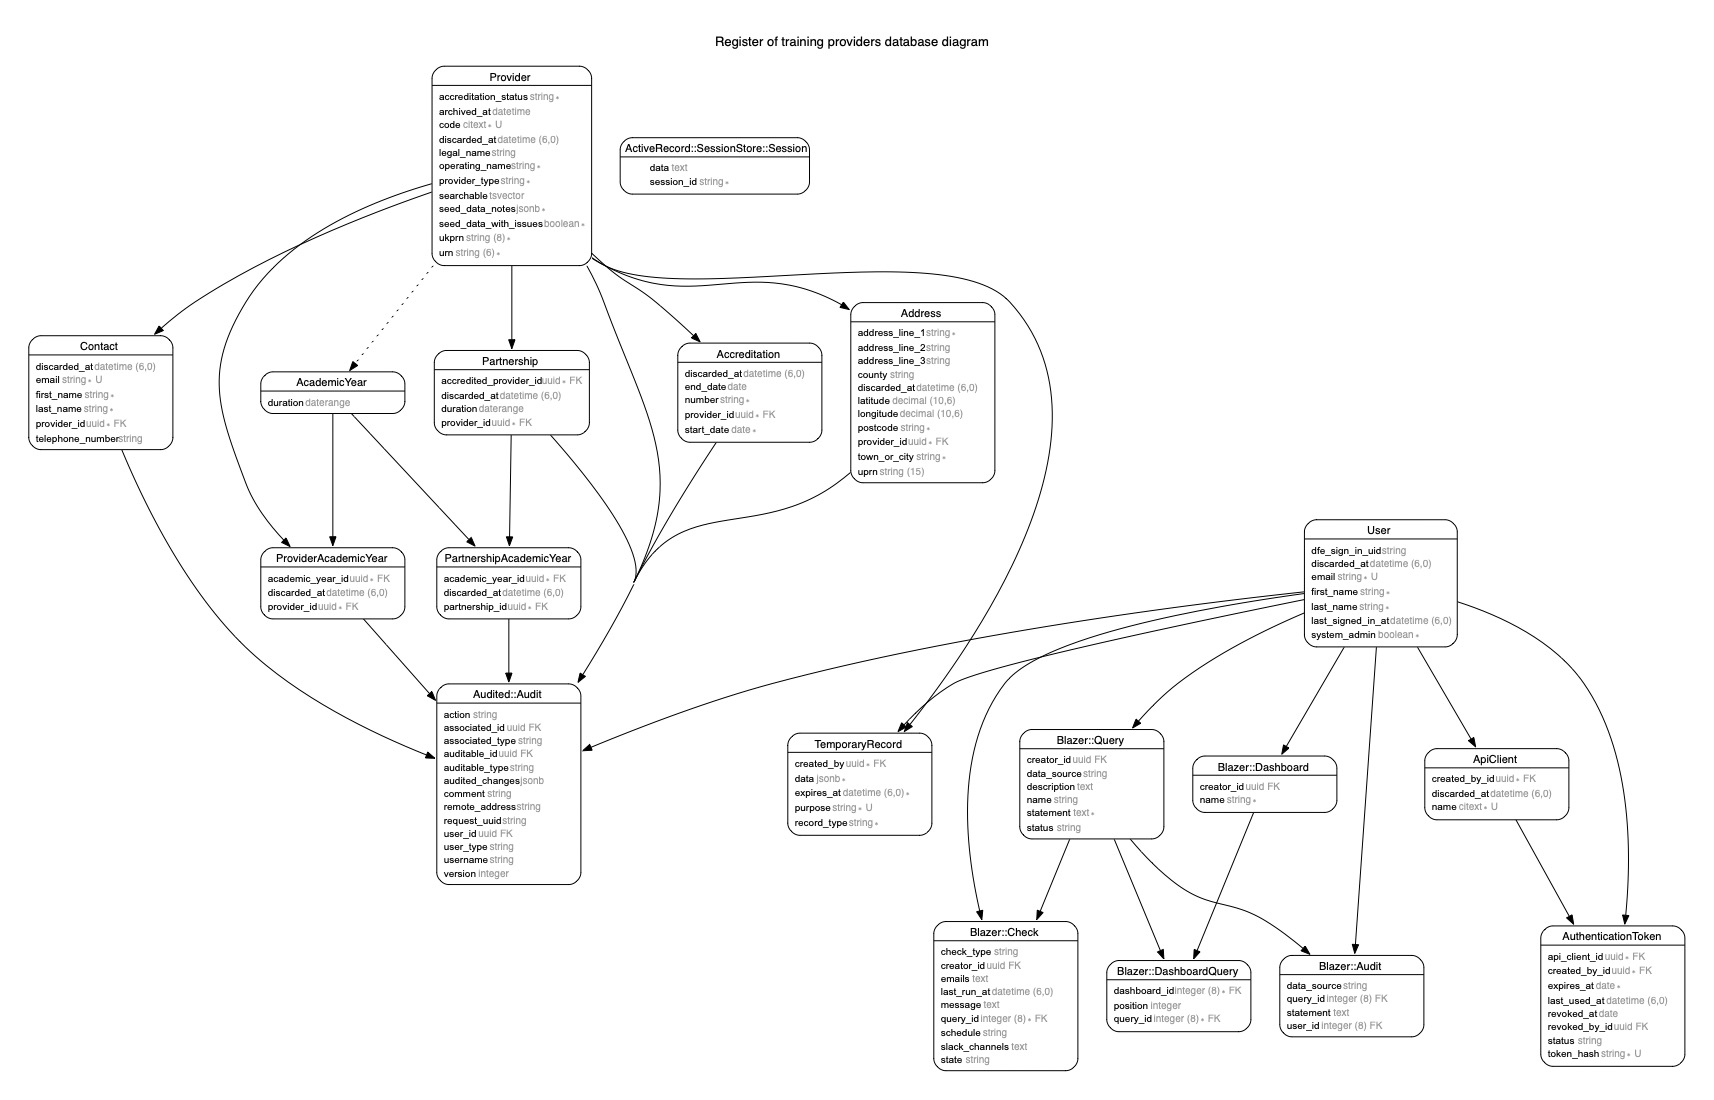
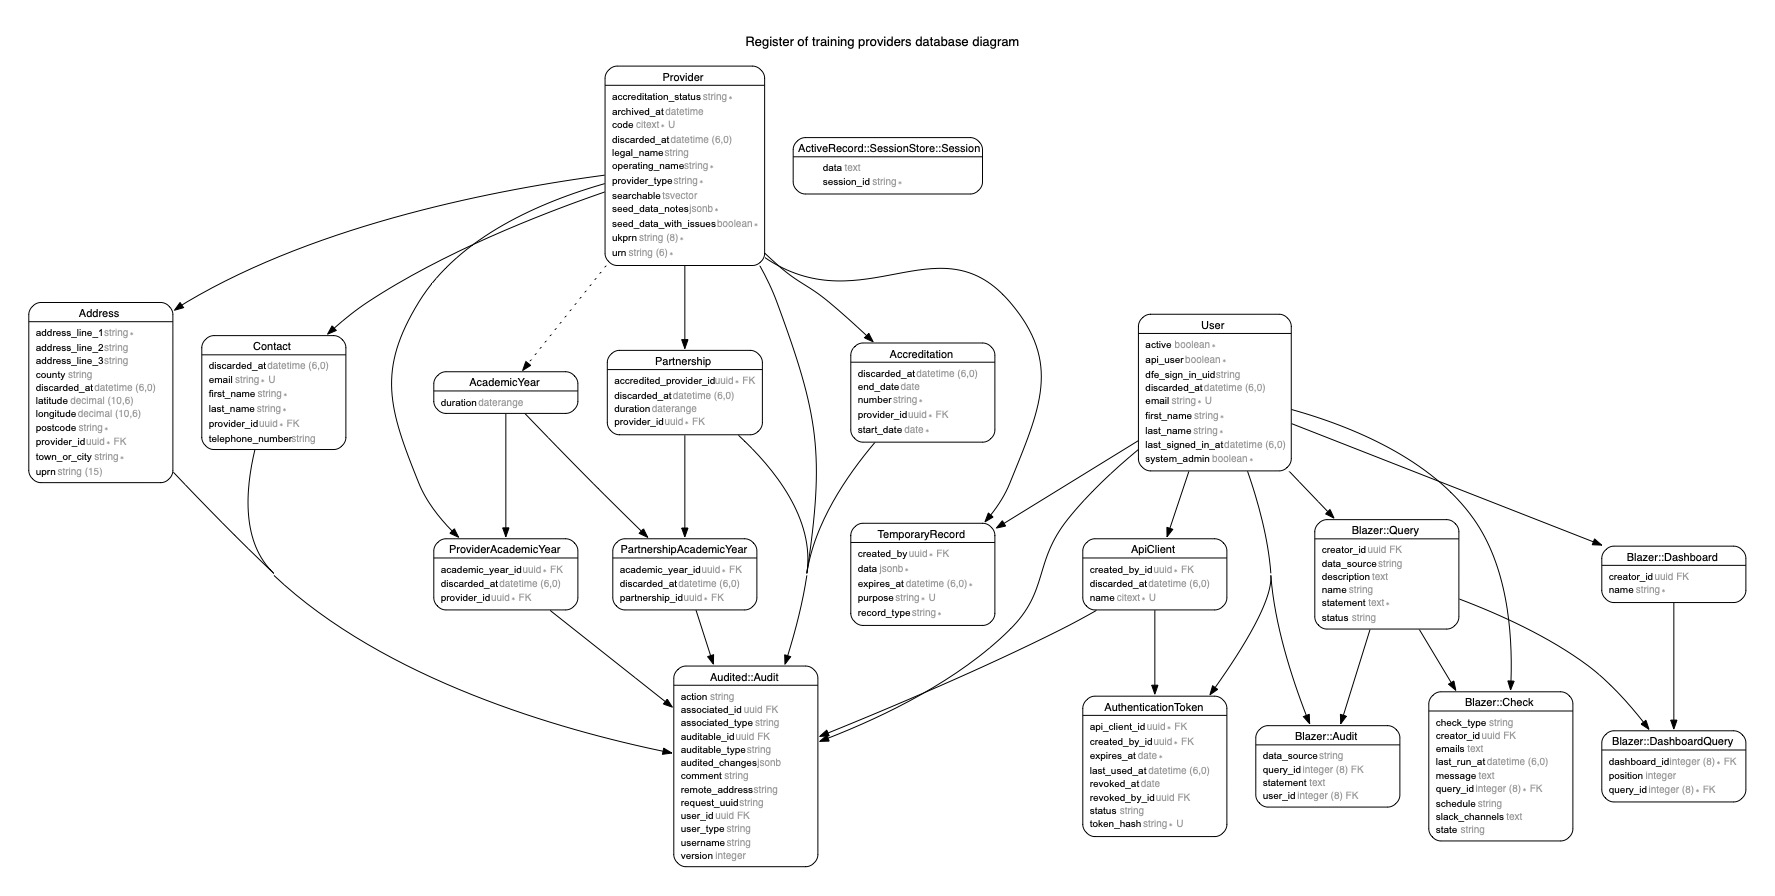
[383] - Administering user details (#469)

diff --git a/spec/helpers/summary_helper_spec.rb b/spec/helpers/summary_helper_spec.rb
@@ -26,27 +26,102 @@ RSpec.describe SummaryHelper, type: :helper do
   end
 
   describe "#user_rows" do
-    let(:user) { build_stubbed(:user) }
+    let(:user) { build_stubbed(:user, last_signed_in_at:) }
+    let(:last_signed_in_at) { nil }
     let(:change_path) { "/users/#{user.id}/edit" }
 
-    it "returns the expected rows" do
-      expect(helper.user_rows(user, change_path)).to eq([
-        {
-          key: { text: "First name" },
-          value: { text: user.first_name },
-          actions: [{ href: change_path, visually_hidden_text: "first name" }]
-        },
-        {
-          key: { text: "Last name" },
-          value: { text: user.last_name },
-          actions: [{ href: change_path, visually_hidden_text: "last name" }]
-        },
-        {
-          key: { text: "Email address" },
-          value: { text: user.email },
-          actions: [{ href: change_path, visually_hidden_text: "email address" }]
-        }
-      ])
+    context "for a new user" do
+      before { allow(user).to receive(:persisted?).and_return(false) }
+
+      let(:change_path) { "/users/new?goto=confirm" }
+
+      it "returns the expected rows" do
+        expect(helper.user_rows(user, change_path)).to eq([
+          {
+            key: { text: "First name" },
+            value: { text: user.first_name },
+            actions: [{ href: change_path, visually_hidden_text: "first name" }]
+          },
+          {
+            key: { text: "Last name" },
+            value: { text: user.last_name },
+            actions: [{ href: change_path, visually_hidden_text: "last name" }]
+          },
+          {
+            key: { text: "Email address" },
+            value: { text: user.email },
+            actions: [{ href: change_path, visually_hidden_text: "email address" }]
+          },
+          {
+            key: { text: "Is the account an API user?" },
+            value: { text: "No" },
+            actions: [{ href: change_path, visually_hidden_text: "is the account an api user" }]
+          }
+        ])
+      end
+    end
+
+    context "for a user that hasn't signed in" do
+      it "returns the expected rows" do
+        expect(helper.user_rows(user, change_path)).to eq([
+          {
+            key: { text: "First name" },
+            value: { text: user.first_name },
+            actions: [{ href: change_path, visually_hidden_text: "first name" }]
+          },
+          {
+            key: { text: "Last name" },
+            value: { text: user.last_name },
+            actions: [{ href: change_path, visually_hidden_text: "last name" }]
+          },
+          {
+            key: { text: "Email address" },
+            value: { text: user.email },
+            actions: [{ href: change_path, visually_hidden_text: "email address" }]
+          },
+          {
+            key: { text: "Is the account an API user?" },
+            value: { text: "No" },
+            actions: [{ href: change_path, visually_hidden_text: "is the account an api user" }]
+          },
+          {
+            key: { text: "Is the account active?" },
+            value: { text: "Yes" },
+            actions: [{ href: change_path, visually_hidden_text: "is the account active" }]
+          }
+        ])
+      end
+    end
+
+    context "for a user that has signed in" do
+      let(:last_signed_in_at) { Time.zone.now }
+
+      it "returns the expected rows" do
+        expect(helper.user_rows(user, change_path)).to eq([
+          {
+            key: { text: "First name" },
+            value: { text: user.first_name }
+          },
+          {
+            key: { text: "Last name" },
+            value: { text: user.last_name }
+          },
+          {
+            key: { text: "Email address" },
+            value: { text: user.email }
+          },
+          {
+            key: { text: "Is the account an API user?" },
+            value: { text: "No" },
+            actions: [{ href: change_path, visually_hidden_text: "is the account an api user" }]
+          },
+          {
+            key: { text: "Is the account active?" },
+            value: { text: "Yes" },
+            actions: [{ href: change_path, visually_hidden_text: "is the account active" }]
+          }
+        ])
+      end
     end
   end
 end

diff --git a/spec/views/users/edit.html.erb_spec.rb b/spec/views/users/edit.html.erb_spec.rb
@@ -1,8 +1,9 @@
 require "rails_helper"
 
 RSpec.describe "users/edit.html.erb", type: :view do
-  let(:user) { create(:user) }
+  let(:user) { create(:user, last_signed_in_at:) }
   let(:goto) { nil }
+  let(:last_signed_in_at) { nil }
 
   before do
     assign(:user, user)
@@ -34,6 +35,8 @@ RSpec.describe "users/edit.html.erb", type: :view do
     expect(rendered).to have_selector("input[name='user[first_name]']")
     expect(rendered).to have_selector("input[name='user[last_name]']")
     expect(rendered).to have_selector("input[name='user[email]']")
+    expect(rendered).to have_selector("input[name='user[api_user]']")
+    expect(rendered).to have_selector("input[name='user[active]']")
   end
 
   it "renders the cancel link" do
@@ -75,6 +78,28 @@ RSpec.describe "users/edit.html.erb", type: :view do
         "Enter last name",
         "Enter email address"
       )
+    end
+  end
+
+  context "when a user has signed in" do
+    let(:last_signed_in_at) { Time.zone.now }
+
+    it "renders the form with the editable fields" do
+      expect(rendered).to have_selector("form")
+      expect(rendered).not_to have_selector("input[name='user[first_name]']")
+      expect(rendered).not_to have_selector("input[name='user[last_name]']")
+      expect(rendered).not_to have_selector("input[name='user[email]']")
+      expect(rendered).to have_selector("input[name='user[api_user]']")
+      expect(rendered).to have_selector("input[name='user[active]']")
+    end
+
+    it "renders the uneditable fields" do
+      expect(rendered).to have_selector("dt", text: "First name")
+      expect(rendered).to have_selector("dd", text: user.first_name)
+      expect(rendered).to have_selector("dt", text: "Last name")
+      expect(rendered).to have_selector("dd", text: user.last_name)
+      expect(rendered).to have_selector("dt", text: "Email address")
+      expect(rendered).to have_selector("dd", text: user.email)
     end
   end
 end

diff --git a/app/components/user_summary/view.rb b/app/components/user_summary/view.rb
@@ -17,13 +17,24 @@ module UserSummary
       [
         { key: { text: "First name" },
           value: { text: @user.first_name },
-          actions: editable ? [{ href: edit_user_path(user), visually_hidden_text: "first name" }] : [] },
+          actions: fully_editable? ? [{ href: edit_user_path(user), visually_hidden_text: "first name" }] : [] },
         { key: { text: "Last name" },
           value: { text: @user.last_name },
-          actions: editable ? [{ href: edit_user_path(user), visually_hidden_text: "last name" }] : [] },
+          actions: fully_editable? ? [{ href: edit_user_path(user), visually_hidden_text: "last name" }] : [] },
         { key: { text: "Email address" },
           value: { text: @user.email },
-          actions: editable ? [{ href: edit_user_path(user), visually_hidden_text: "email address" }] : [] },
+          actions: fully_editable? ? [{ href: edit_user_path(user), visually_hidden_text: "email address" }] : [] },
+        { key: { text: "Is the account an API user" },
+          value: { text: @user.api_user? ? "Yes" : "No" },
+          actions: if editable
+                     [{ href: edit_user_path(user),
+                        visually_hidden_text: "is the account an api user?" }]
+                   else
+                     []
+                   end },
+        { key: { text: "Is the account active?" },
+          value: { text: @user.active? ? "Yes" : "No" },
+          actions: editable ? [{ href: edit_user_path(user), visually_hidden_text: "is the account active?" }] : [] },
       ]
     end
 
@@ -37,6 +48,10 @@ module UserSummary
 
     def use_breadcrumbs?
       back_path == root_path
+    end
+
+    def fully_editable?
+      editable && user.last_signed_in_at.nil?
     end
   end
 end

diff --git a/app/helpers/summary_helper.rb b/app/helpers/summary_helper.rb
@@ -7,17 +7,28 @@ module SummaryHelper
     { text: "Not entered", classes: "govuk-hint" }
   end
 
+  def boolean_value(value)
+    value ? "Yes" : "No"
+  end
+
   def user_rows(user, change_path = nil)
     rows = [
       { key: { text: "First name" }, value: { text: user.first_name } },
       { key: { text: "Last name" }, value: { text: user.last_name } },
       { key: { text: "Email address" }, value: { text: user.email } },
+      { key: { text: "Is the account an API user?" }, value: { text: boolean_value(user.api_user) } },
     ]
 
+    rows << { key: { text: "Is the account active?" }, value: { text: boolean_value(user.active) } } if user.persisted?
+
     if change_path
-      rows[0][:actions] = [{ href: change_path, visually_hidden_text: "first name" }]
-      rows[1][:actions] = [{ href: change_path, visually_hidden_text: "last name" }]
-      rows[2][:actions] = [{ href: change_path, visually_hidden_text: "email address" }]
+      if user.last_signed_in_at.nil?
+        rows[0][:actions] = [{ href: change_path, visually_hidden_text: "first name" }]
+        rows[1][:actions] = [{ href: change_path, visually_hidden_text: "last name" }]
+        rows[2][:actions] = [{ href: change_path, visually_hidden_text: "email address" }]
+      end
+      rows[3][:actions] = [{ href: change_path, visually_hidden_text: "is the account an api user" }]
+      rows[4][:actions] = [{ href: change_path, visually_hidden_text: "is the account active" }] if user.persisted?
     end
 
     rows

diff --git a/app/controllers/users_controller.rb b/app/controllers/users_controller.rb
@@ -21,7 +21,7 @@ class UsersController < ApplicationController
   end
 
   def create
-    @user = scoped_user.new(params.expect(user: [:first_name, :last_name, :email]))
+    @user = scoped_user.new(params.expect(user: user_params))
     if @user.valid?
       @user.save_as_temporary!(created_by: current_user, purpose: :check_your_answers)
       redirect_to new_user_confirm_path
@@ -33,7 +33,7 @@ class UsersController < ApplicationController
   def update
     @user = current_user.load_temporary(scoped_user, id: user_id, purpose: :check_your_answers)
 
-    @user.assign_attributes(params.expect(user: [:first_name, :last_name, :email]))
+    @user.assign_attributes(params.expect(user: user_params))
 
     if @user.valid?
       @user.save_as_temporary!(created_by: current_user, purpose: :check_your_answers)
@@ -51,5 +51,12 @@ private
 
   def scoped_user
     @scoped_user || policy_scope(User)
+  end
+
+  def user_params
+    return [:first_name, :last_name, :email, :api_user] unless @user
+    return [:first_name, :last_name, :email, :api_user, :active] if @user.last_signed_in_at.nil?
+
+    [:api_user, :active]
   end
 end

diff --git a/db/schema.rb b/db/schema.rb
@@ -10,7 +10,7 @@
 #
 # It's strongly recommended that you check this file into your version control system.
 
-ActiveRecord::Schema[8.1].define(version: 2026_04_13_093523) do
+ActiveRecord::Schema[8.1].define(version: 2026_04_23_105759) do
   # These are extensions that must be enabled in order to support this database
   enable_extension "citext"
   enable_extension "pgcrypto"
@@ -376,6 +376,8 @@ ActiveRecord::Schema[8.1].define(version: 2026_04_13_093523) do
   end
 
   create_table "users", id: :uuid, default: -> { "gen_random_uuid()" }, force: :cascade do |t|
+    t.boolean "active", default: true, null: false
+    t.boolean "api_user", default: false, null: false
     t.datetime "created_at", null: false
     t.string "dfe_sign_in_uid"
     t.datetime "discarded_at"

diff --git a/spec/views/users/new.html.erb_spec.rb b/spec/views/users/new.html.erb_spec.rb
@@ -32,6 +32,7 @@ RSpec.describe "users/new.html.erb", type: :view do
     expect(rendered).to have_selector("input[name='user[first_name]']")
     expect(rendered).to have_selector("input[name='user[last_name]']")
     expect(rendered).to have_selector("input[name='user[email]']")
+    expect(rendered).to have_selector("input[name='user[api_user]']")
   end
 
   it "renders the cancel link" do

diff --git a/app/models/persona.rb b/app/models/persona.rb
@@ -3,6 +3,8 @@
 # Table name: users
 #
 #  id                :uuid             not null, primary key
+#  active            :boolean          default(TRUE), not null
+#  api_user          :boolean          default(FALSE), not null
 #  dfe_sign_in_uid   :string
 #  discarded_at      :datetime
 #  email             :string           not null

diff --git a/app/models/user.rb b/app/models/user.rb
@@ -3,6 +3,8 @@
 # Table name: users
 #
 #  id                :uuid             not null, primary key
+#  active            :boolean          default(TRUE), not null
+#  api_user          :boolean          default(FALSE), not null
 #  dfe_sign_in_uid   :string
 #  discarded_at      :datetime
 #  email             :string           not null

diff --git a/db/migrate/20260423105759_add_api_user_field.rb b/db/migrate/20260423105759_add_api_user_field.rb
@@ -1,0 +1,8 @@
+class AddApiUserField < ActiveRecord::Migration[8.1]
+  def change
+    change_table :users, bulk: true do |t|
+      t.column :api_user, :boolean, default: false, null: false
+      t.column :active, :boolean, default: true, null: false
+    end
+  end
+end

diff --git a/spec/models/user_spec.rb b/spec/models/user_spec.rb
@@ -240,4 +240,10 @@ RSpec.describe User, type: :model do
       expect(new_user.name).to eq "Alicia Wonder"
     end
   end
+
+  describe "#active?" do
+    it "is true by default" do
+      expect(user.active?).to be true
+    end
+  end
 end
